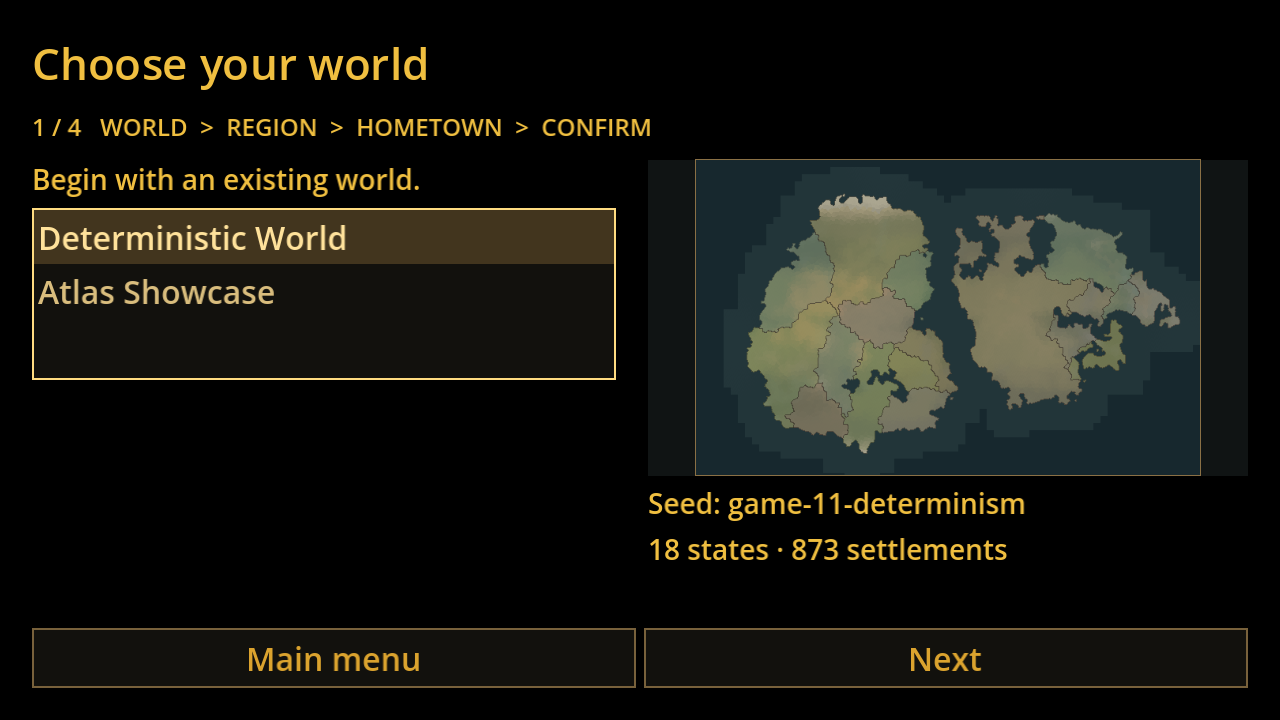
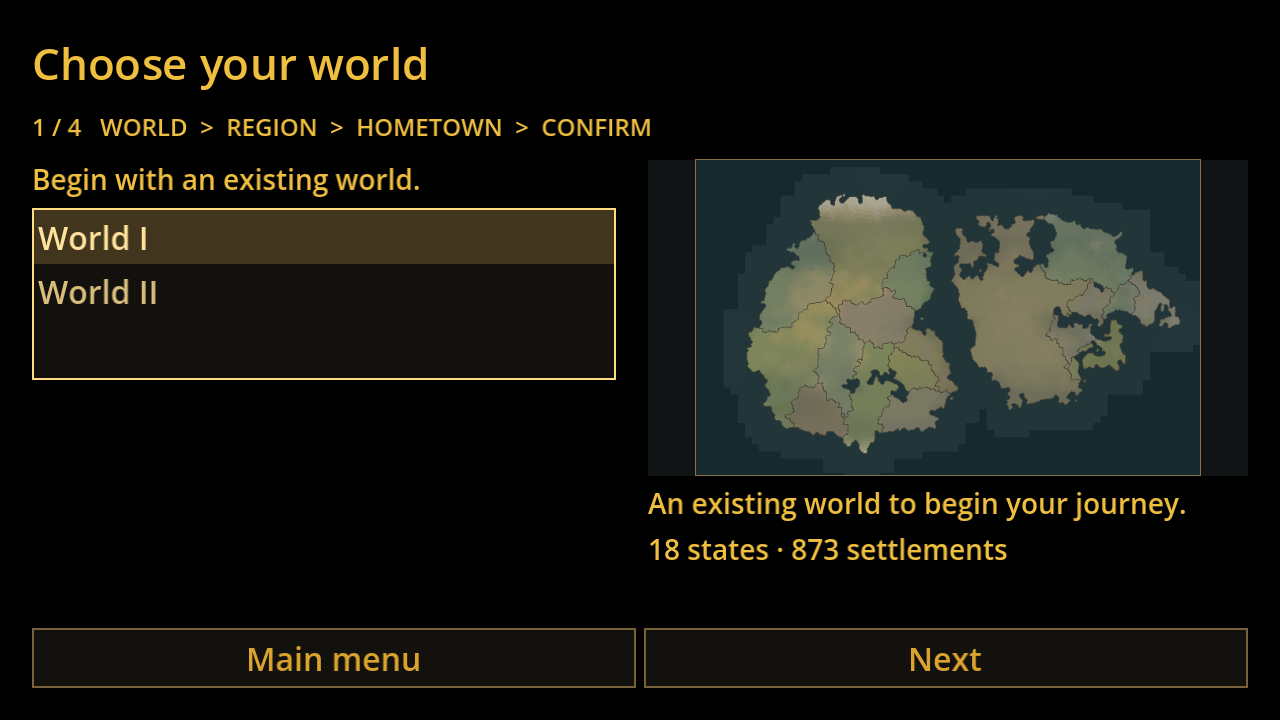
docs(game74): refresh review-fix QA and player wording screenshots

Changed region(s): [[0.5, 0.6722, 0.9375, 0.7333], [0.0312, 0.3056, 0.2812, 0.4278]]

diff --git a/docs/implementation/game74/README.md b/docs/implementation/game74/README.md
@@ -18,7 +18,10 @@ source lookups. The sole foundation fix also excludes source `removed` burgs.
 GamePlaythroughStore retains its unchanged state/save schema and three skeletal
 adventurers. Only confirmation creates and atomically writes a save, using the
 unique playthrough ID as slot; the new save is immediately reload-validated.
-Save failures stay on review and may be retried. Reviewing a successfully saved
+Write or immediate reload-validation failures stay on review and may be retried.
+A failed reload never sets the validated saved slot or enters the handoff. The
+newly written invalid slot is removed before retry; failed removal retains its
+exact path and blocks another write or Back until cleanup succeeds. Reviewing a successfully saved
 origin cannot create another save. Default persistence remains
 `user://game_world_saves`; tests use isolated directories and remove their saves.
 
@@ -38,9 +41,10 @@ cell IDs are explicitly binary for Windows checkout safety. Rebuild with:
 godot --headless --audio-driver Dummy --path . --script tests/onboarding/bake-previews.gd
 ```
 
-The two known templates are V1's complete catalogue. Their source seeds and
-relative Azgaar size values remain factual; size values are not people counts.
-Walls/ports are described as recorded or unrecorded, without inventing safety,
+The two known templates are V1's complete catalogue. Player labels are World I and World II; fixture keys, seeds and immutable IDs
+remain unchanged internally and in diagnostics. Hometowns show the source-backed
+settlement type and terrain rather than a raw population/size number. Walls/ports
+are described as present or none recorded, without inventing safety,
 protection, factions, road access or danger. Continue remains disabled: a
 player save browser and the next party-setup task are still required. The
 handoff offers origin review and return to menu, not fake gameplay.
@@ -55,10 +59,15 @@ Draft PRs #51–#55 remain untouched.
 Godot **4.6.3 official Linux**, Mesa llvmpipe/Xvfb; real frames and input events,
 not mocked screenshots. `logs/` contains the actual final run output.
 
-- GAME-74: **3,968 checks, zero failures**: both immutable templates, deterministic
+- GAME-74: **3,973 checks, zero failures**: both immutable templates, deterministic
   states/provinces/homes, ownership, hidden/removed exclusion, unknown facts,
   stable IDs after rename, Back/invalidation, empty area, failed write/retry,
   one save per confirmation, same-origin independent saves and valid reloads.
+- Post-write reload regression: **26 checks, zero failures**. Deliberately
+  corrupts actual written JSON and uses the unchanged GAME-7 validator to reject
+  it. Two failed attempts leave no slots or success claims; the next valid retry
+  leaves exactly one reloadable save. A simulated cleanup error blocks extra
+  writes and Back, then recovery deletes the failed slot and completes one save.
 - Real Godot UI: **17 checks, zero failures**: intro skip, menu Enter, world
   arrows, state popup keyboard selection, mouse Next/hometown selection,
   Escape/Back, confirmation, persisted handoff, review without duplicate save,
@@ -84,7 +93,9 @@ SHA256 before running the same checks.
 
 ## Actual screenshot sequence
 
-These are successive frames from one real Godot run. The 640×360 and
+The flow is exercised end-to-end in a real Godot run. This review pass refreshed
+only screenshots with changed wording (world, hometown, review, handoff and
+scaled handoff). Main-menu, region and empty-area screenshots remain unchanged. The 640×360 and
 2560×1440 shots use the same logical responsive layout, after window resizing.
 All were visually inspected; the focus-style obscuring text found during QA
 was corrected before these final captures.
@@ -120,7 +131,7 @@ was corrected before these final captures.
    `%APPDATA%/Godot/app_userdata/Road Has Gone Dark/game_world_saves`.
 7. Re-run at 640×360, 1280×720 and a larger desktop/window. Use Godot's window
    overrides or resize the game window. Verify controls, text and map placement.
-8. For an empty area, Atlas Showcase → state Ris (ID 1) → province Grorjujen (ID 5) (the
+8. For an empty area, World II → state Ris (ID 1) → province Grorjujen (ID 5) (the
    source-backed empty case shown by the automated diagnostic; inspect the
    selected names if canonical fixtures later change). Verify Back remains usable.
 9. Underlying persistence smoke can be run from PowerShell:

diff --git a/docs/implementation/game74/LINEAR-UPDATE.md b/docs/implementation/game74/LINEAR-UPDATE.md
@@ -37,3 +37,30 @@ gameplay remain out of scope. Existing PRs #51–#55 remain untouched/unmerged.
 
 No authenticated Linear connector was available, so this update was prepared
 for Mark/ChatGPT rather than claiming a ticket write or acceptance.
+
+## Independent-review amendments — PR #56
+
+Reviewed the latest independent GitHub review comment (5990365042) and this
+prepared update before changes. Live Linear access remains unavailable.
+
+Fixed post-save validation: only a successful write AND immediate validated
+reload permit Origin Established. Failed reload stays on confirmation without
+a saved-state claim and discards only that newly written slot. If cleanup fails,
+its exact path remains owned and another write or Back is blocked until cleanup
+completes. GAME-7 validation and save format are unchanged.
+
+Added deliberate on-disk corruption regressions: 26 checks pass for repeated
+validation failures, no handoff/false claims, zero leftover failed slots, one
+valid retry, Back/cancel, cleanup failure blocking and cleanup recovery. The
+source/save suite now has 3,973 passing checks; actual input/render flow has 17
+passing checks. GAME-7 persistence, landmark-inspection and canonical validation
+were rerun successfully. Logs and persistence proof are refreshed.
+
+Primary UI now uses World I / World II and source-backed settlement descriptors,
+with concise Walls/Port notes. Seeds, fixture keys and immutable identities are
+unchanged internally. Layout/style remain approved and unchanged. Only six
+existing screenshots with visibly changed text were updated; menu, region and
+empty-area images were preserved. Native Windows review remains pending.
+
+Continue remains disabled. No gameplay, character creation, generation, GAME-8
+expansion or protected PR changes. PR #56 remains draft for review, not accepted.
